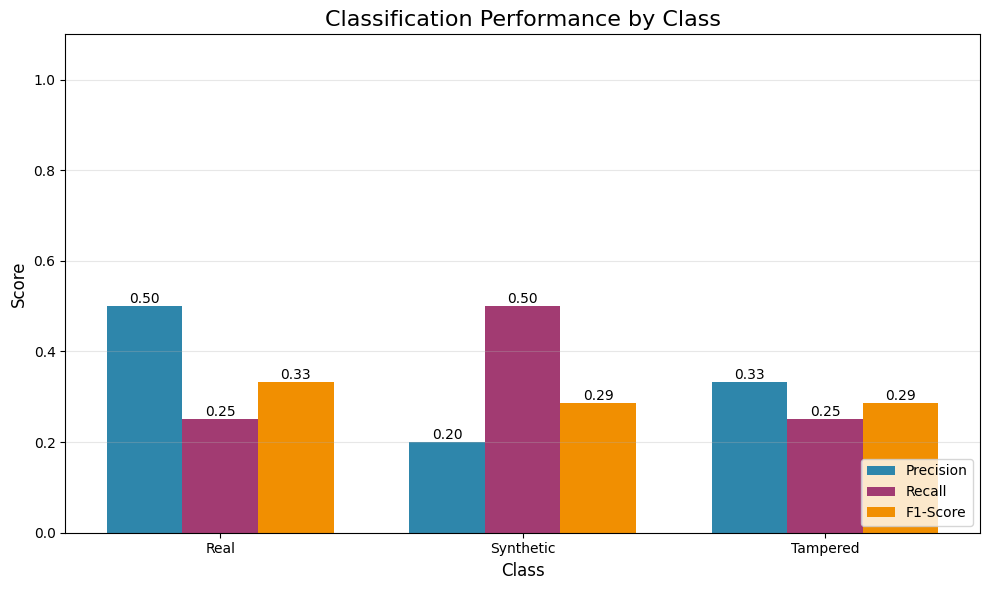
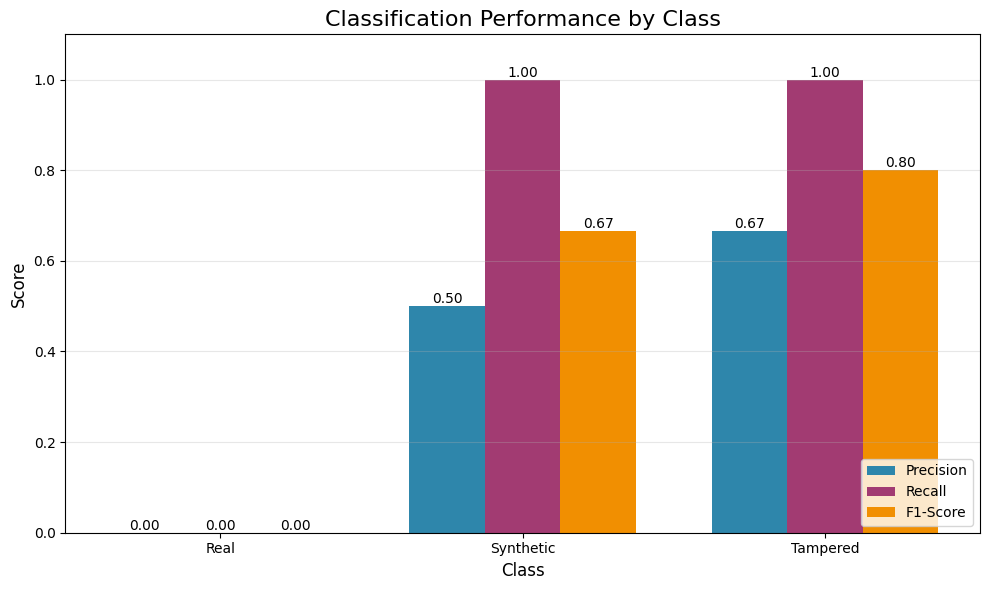
Sync deepfake-classifier updates

Changed region(s): [[0.6977, 0.0915, 0.9707, 0.7322], [0.3943, 0.0915, 0.6673, 0.7627], [0.091, 0.4881, 0.364, 0.9153]]

diff --git a/deepfake-classifier/src/dataset.py b/deepfake-classifier/src/dataset.py
@@ -12,11 +12,10 @@ sys.path.append(os.path.dirname(os.path.dirname(os.path.abspath(__file__))))
 class SIDDataset(Dataset):
     """
     A custom PyTorch Dataset for loading images, optional masks, and labels
-    with preprocessing and device placement.
+    with preprocessing applied.
 
     Args:
         dataset: A sequence of samples, each containing "image", optional "mask", and "label".
-        device: If provided, the device to which the data tensors will be transformed.
         transform (callable): Transform pipeline applied to images.
         transform_mask (callable): Transform pipeline applied to masks.
 
@@ -25,7 +24,6 @@ class SIDDataset(Dataset):
         - Creates a dummy zero mask if no mask is provided. 
         - Ensures image and mask shapes match in size and channels.
         - Converts labels to torch.long tensors.
-        - Moves image, mask, and label to the specified device.
         - Returns a dict with keys: {"image", "mask", "label"}.
     """
 
@@ -41,14 +39,12 @@ class SIDDataset(Dataset):
                  image_size,
                  normalize_mean,
                  normalize_std,
-                 device=None,
                  transform=None,
                  transform_mask=None):
         self.dataset        = dataset
         self.image_size     = image_size
         self.normalize_mean = normalize_mean
         self.normalize_std  = normalize_std
-        self.device         = device
 
         # Set default transforms if not provided
         if transform is None:
@@ -98,10 +94,6 @@ class SIDDataset(Dataset):
             )
 
         label = torch.tensor(ex["label"], dtype=torch.long) 
-        
-        if self.device:
-            image, mask, label = image.to(self.device), mask.to(self.device), label.to(self.device)
-            
+
         # TODO: Change the way to load the data when the PR is done. To be {"image": image, "mask": mask, "label": label}
         return image, label
-

diff --git a/deepfake-classifier/src/train.py b/deepfake-classifier/src/train.py
@@ -34,8 +34,7 @@ def train(logger: SidLogger, cfg: Config):
             train_ds,
             image_size=cfg.data.image_size,
             normalize_mean=cfg.model.normalize_mean,
-            normalize_std=cfg.model.normalize_std,
-            device=device
+            normalize_std=cfg.model.normalize_std
         ),
         batch_size=cfg.loader.batch_size,
         shuffle=cfg.loader.shuffle_train,
@@ -47,8 +46,7 @@ def train(logger: SidLogger, cfg: Config):
             val_ds,
             image_size=cfg.data.image_size,
             normalize_mean=cfg.model.normalize_mean,
-            normalize_std=cfg.model.normalize_std,
-            device=device
+            normalize_std=cfg.model.normalize_std
         ),
         batch_size=cfg.loader.batch_size,
         shuffle=cfg.loader.shuffle_val,

diff --git a/deepfake-classifier/main.py b/deepfake-classifier/main.py
@@ -3,6 +3,8 @@
 import os
 import argparse
 
+import torch.multiprocessing as mp
+
 from src.evaluate import evaluate
 from src.train import train
 from src.utils.seed_manager import SeedManager
@@ -32,4 +34,7 @@ def main():
         parser.print_help()
 
 if __name__ == "__main__":
+    start_method = mp.get_start_method(allow_none=True)
+    if start_method != "spawn":
+        mp.set_start_method("spawn", force=True)
     main()

diff --git a/deepfake-classifier/src/evaluate.py b/deepfake-classifier/src/evaluate.py
@@ -41,8 +41,7 @@ def evaluate(logger: SidLogger, cfg: Config):
             test_ds,
             image_size=cfg.data.image_size,
             normalize_mean=cfg.model.normalize_mean,
-            normalize_std=cfg.model.normalize_std,
-            device=device
+            normalize_std=cfg.model.normalize_std
         ),
         batch_size=cfg.loader.batch_size,
         shuffle=cfg.loader.shuffle_test,

diff --git a/deepfake-classifier/README.md b/deepfake-classifier/README.md
@@ -1,77 +1,39 @@
 # Deepfake Detection CNN
-**3-class deepfake detection** (Real, Synthetic, Tampered) using the SID_Set dataset  
-For course: *Deep Learning for Visual Recognition | Group 3*
+Simple 3-class classifier (Real / Synthetic / Tampered) built around the Hugging Face `saberzl/SID_Set` dataset.
 
-
-**Note:** Currently downloads the entire SID_Set dataset to `~/.cache/huggingface/datasets/`. To use streaming mode (no download), modify `dataset.py` to use `load_dataset(..., streaming=True)`.
-
-## Setup
-
+## Quick start
 ```bash
-# Create environment
-conda create -n deepfake-env python=3.13.7
-conda activate deepfake-env
-
-# Install dependencies
+python -m venv .venv            # or use conda
+source .venv/bin/activate
+pip install --upgrade pip
 pip install -r requirements.txt
-```
 
-## Configuration
-All defaults live in `src/config/default.yaml`. Edit the repository-level `config.yaml` to override anything — it now lists every available option.
-
-Useful commands:
-
-```bash
-# Inspect the merged config (defaults + overrides)
-python -m src.utils.config_loader
-
-# Write a fresh copy of the default template
-python -m src.utils.config_loader --dump-default --output my-config.yaml
-# Add --force to overwrite an existing file
-```
-
-The configuration sections map directly to the dataclasses in `src/config/schema.py` (`data`, `loader`, `model`, `training`, `paths`). Results and weights paths are resolved relative to the project root unless you provide absolute paths.
-
-
-***
-
-## Run
-
-```bash
-# Train model (optional: --config path/to/experiment.yaml)
+# train the CNN (saves weights + metrics)
 python main.py --train
 
-# Evaluate model
+# evaluate with the saved weights
 python main.py --eval
 ```
+The script auto-selects GPU (`cuda`) if available; otherwise it stays on CPU.
 
-## Information
-For more documentation see docs under `Deepfake\docs`
+## How data is handled
+- Reads `saberzl/SID_Set` via Hugging Face datasets.
+- Streams by default (`data.use_streaming: true`) so nothing is downloaded. Flip to `false` to keep a local cache (`~/.cache/huggingface/datasets/` by default).
+- Optional disk caching (`data.use_disk_cache: true`) saves any custom splits under `~/.cache/huggingface/datasets/custom_splits/SID/`.
 
+## Using `config.yaml`
+- `src/config/default.yaml` is the template; `config.yaml` overrides it. Use `--config <file>` to point at another file.
+- Most-used fields:
+  - `data`: sample counts (`null`=full split), `image_size`, streaming + caching toggles.
+  - `loader`: batch size, shuffles, worker count.
+  - `training`: epochs, learning rate, seed (device auto-fills).
+  - `paths`: output locations for weights, results, logs.
+- Preview effective settings: `python -m src.utils.config_loader [--config path]`.
+- Need a fresh copy? `python -m src.utils.config_loader --dump-default --output my-config.yaml` (`--force` to overwrite).
 
-## Notes
+## What gets produced
+- Best checkpoint: `models/best_model.pth` (or your `paths.model_path`).
+- Metrics & plots: JSON + PNG files in `results/` by default.
+- Logs: timestamped files in `logs/` unless `paths.logging_dir` says otherwise.
 
-- Data is cached by default in `~/.cache/huggingface/datasets/`.  
-- To enable streaming (no full download), set `cfg.data.use_streaming: true` in `config.yaml`.
-
-***
-
-## How the Data Manager Works
-
-See **DATAMANAGER.md** for details on:
-
-- HuggingFace cache locations  
-- Custom split caching under `custom_splits/SID/`  
-- Enabling streaming vs. full download  
-
-***
-
-## Dataset Class Details
-
-See **DATASET.md** for information on:
-
-- Keyword-only preprocessing parameters  
-- Default transforms derived from config  
-- Multiprocessing pickle fixes  
-
-***
+More detail sits in `docs/Configuration.md`, `docs/DataManager.md`, and `docs/Dataset.md`.
